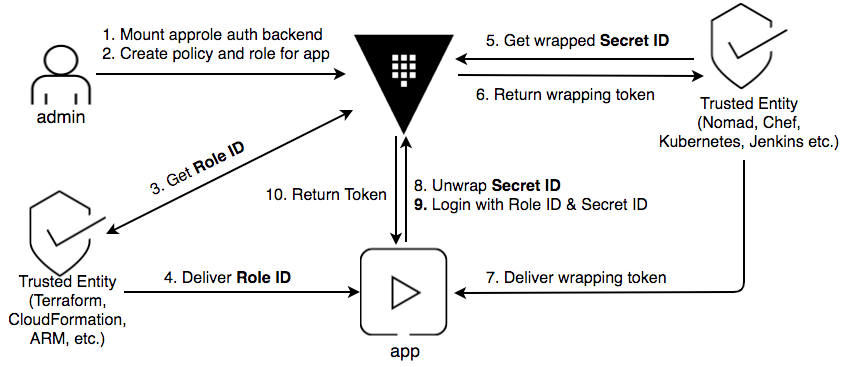
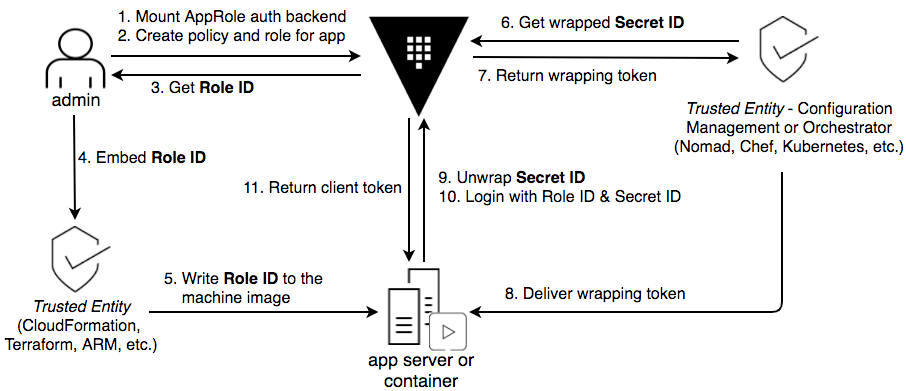
Updated the diagram & added additional resource links

diff --git a/website/source/guides/identity/authentication.html.md b/website/source/guides/identity/authentication.html.md
@@ -35,9 +35,10 @@ enabling the [**AppRole**](/docs/auth/approle.html) auth method.
 
 ## Reference Material
 
-- [Getting Started](/intro/getting-started/authentication.html)
-- [Auth Methods](/docs/auth/index.html)
-- [GitHub Auth APIs](/api/auth/github/index.html)
+- [AppRole Auth Methods](/docs/auth/approle.html)
+- [AppRole Auth Method (API)](/api/auth/approle/index.html)
+- [Authenticating Applications with HashiCorp Vault AppRole](https://www.hashicorp.com/blog/authenticating-applications-with-vault-approle)
+
 
 
 ## Estimated Time to Complete
@@ -666,6 +667,9 @@ b07d7a47-1d0d-741d-20b4-ae0de7c6d964
 
 
 ## Next steps
+
+Watch the video recording of the [Delivering Secret Zero: Vault AppRole with Terraform and Chef](Docs.google.com/document/d/1CCbAQ-ZEeSpxQqvo40hM0Y5oe3tBCxM1qYrk7_Wyvww/edit?ts=5a865277#heading=h.i52qa2wbjcsk)
+webinar which talks about the usage of AppRole with Terraform and Chef as its trusted entities.
 
 To learn more about response wrapping, go to the [Cubbyhole Response
 Wrapping](/guides/secret-mgmt/cubbyhole.html) guide.
